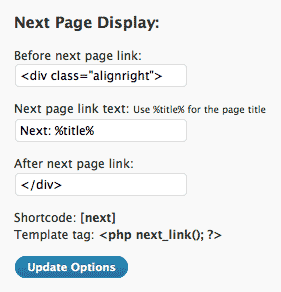
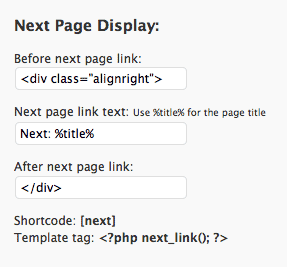
typo correction
git-svn-id: https://plugins.svn.wordpress.org/next-page/trunk@140290 b8457f37-d9ea-0310-8a92-e5e31aec5664

Changed region(s): [[0.0285, 0.1498, 0.968, 0.9588], [0.0285, 0.03, 0.5694, 0.1498], [0.6548, 0.5993, 0.6833, 0.6592]]

diff --git a/next-page.php b/next-page.php
@@ -93,7 +93,7 @@ function next_page_options() {
     <p><label><?php _e("After previous page link: "); ?><br />
     <input type="text" name="next_page__after_prev_link" id="next_page__after_prev_link" value="<?php echo stripslashes(htmlentities(get_option('next_page__after_prev_link'))); ?>" />  </label></p>
     <p>Shortcode: <strong>[previous]</strong><br />
-    Template tag: <strong>&lt;php previous_link(); ?&gt;</strong></p>
+    Template tag: <strong>&lt;?php previous_link(); ?&gt;</strong></p>
     </div>
     
     <div style="float: left; width: 30%; margin-right: 5%;">
@@ -107,7 +107,7 @@ function next_page_options() {
     <p><label><?php _e("After parent page link: "); ?><br />
     <input type="text" name="next_page__after_parent_link" id="next_page__after_parent_link" value="<?php echo stripslashes(htmlentities(get_option('next_page__after_parent_link'))); ?>" />  </label></p>
     <p>Shortcode: <strong>[parent]</strong><br />
-    Template tag: <strong>&lt;php parent_link(); ?&gt;</strong></p>
+    Template tag: <strong>&lt;?php parent_link(); ?&gt;</strong></p>
     </div>
     
     <div style="float: left; width: 30%;">
@@ -121,7 +121,7 @@ function next_page_options() {
     <p><label><?php _e("After next page link: "); ?><br />
     <input type="text" name="next_page__after_next_link" id="next_page__after_next_link" value="<?php echo stripslashes(htmlentities(get_option('next_page__after_next_link'))); ?>" />  </label></p>
     <p>Shortcode: <strong>[next]</strong><br />
-    Template tag: <strong>&lt;php next_link(); ?&gt;</strong></p>
+    Template tag: <strong>&lt;?php next_link(); ?&gt;</strong></p>
     </div>
     
     <input type="hidden" name="action" value="update" />
@@ -159,19 +159,16 @@ function next_page() {
 	$current = array_search($post->ID, $pages);
 	$nextID = $pages[$current+1];
 	
-	if (!empty($nextID)) {
-		$before_link = htmlspecialchars_decode(stripslashes(get_option('next_page__before_next_link')));
-		$linkurl = get_permalink($nextID);
-		$title = get_the_title($nextID);
-		$linktext = get_option('next_page__next_link_text');
-		if (strpos($linktext, '%title%') !== false) 
-			$linktext = str_replace('%title%', $title, $linktext);
-		$after_link = htmlspecialchars_decode(stripslashes(get_option('next_page__after_next_link')));
-		
-		$link = $before_link . '<a href="' . $linkurl . '" title="' . $title . '">' . $linktext . '</a>' . $after_link;
-		return $link;
-	}
-	else return '';
+	$before_link = htmlspecialchars_decode(stripslashes(get_option('next_page__before_next_link')));
+	$linkurl = get_permalink($nextID);
+	$title = get_the_title($nextID);
+	$linktext = get_option('next_page__next_link_text');
+	if (strpos($linktext, '%title%') !== false) 
+		$linktext = str_replace('%title%', $title, $linktext);
+	$after_link = htmlspecialchars_decode(stripslashes(get_option('next_page__after_next_link')));
+	
+	$link = $before_link . '<a href="' . $linkurl . '" title="' . $title . '">' . $linktext . '</a>' . $after_link;
+	return $link;
 } 
 
 function prev_page() {
@@ -180,47 +177,43 @@ function prev_page() {
 	$current = array_search($post->ID, $pages);
 	$prevID = $pages[$current-1];
 	
-	if (!empty($prevID)) {
-		$before_link = htmlspecialchars_decode(stripslashes(get_option('next_page__before_prev_link')));
-		$linkurl = get_permalink($prevID);
-		$title = get_the_title($prevID);
-		$linktext = get_option('next_page__prev_link_text');
-		if (strpos($linktext, '%title%') !== false) 
-			$linktext = str_replace('%title%', $title, $linktext);
-		$after_link = htmlspecialchars_decode(stripslashes(get_option('next_page__after_prev_link')));
-		
-		$link = $before_link . '<a href="' . $linkurl . '" title="' . $title . '">' . $linktext . '</a>' . $after_link;
-		return $link;
-	}
-	else return '';
+	$before_link = htmlspecialchars_decode(stripslashes(get_option('next_page__before_prev_link')));
+	$linkurl = get_permalink($prevID);
+	$title = get_the_title($prevID);
+	$linktext = get_option('next_page__prev_link_text');
+	if (strpos($linktext, '%title%') !== false) 
+		$linktext = str_replace('%title%', $title, $linktext);
+	$after_link = htmlspecialchars_decode(stripslashes(get_option('next_page__after_prev_link')));
+	
+	$link = $before_link . '<a href="' . $linkurl . '" title="' . $title . '">' . $linktext . '</a>' . $after_link;
+	return $link;
 } 
 
 function parent_page() {
 	global $post;
 	$parentID = $post->post_parent;
 	
-	if (!empty($parentID)) {
-		$before_link = htmlspecialchars_decode(stripslashes(get_option('next_page__before_parent_link')));
-		$linkurl = get_permalink($parentID);
-		$title = get_the_title($parentID);
-		$linktext = get_option('next_page__parent_link_text');
-		if (strpos($linktext, '%title%') !== false) 
-			$linktext = str_replace('%title%', $title, $linktext);
-		$after_link = htmlspecialchars_decode(stripslashes(get_option('next_page__after_parent_link')));
-		
-		$link = $before_link . '<a href="' . $linkurl . '" title="' . $title . '">' . $linktext . '</a>' . $after_link;
-		return $link;
-	}
-	else return '';
+	$before_link = htmlspecialchars_decode(stripslashes(get_option('next_page__before_parent_link')));
+	$linkurl = get_permalink($parentID);
+	$title = get_the_title($parentID);
+	$linktext = get_option('next_page__parent_link_text');
+	if (strpos($linktext, '%title%') !== false) 
+		$linktext = str_replace('%title%', $title, $linktext);
+	$after_link = htmlspecialchars_decode(stripslashes(get_option('next_page__after_parent_link')));
+	
+	$link = $before_link . '<a href="' . $linkurl . '" title="' . $title . '">' . $linktext . '</a>' . $after_link;
+	return $link;
 }
 
 // template tags
 function previous_link() {
 	echo prev_page();
 }
+
 function next_link() {
 	echo next_page();
 }
+
 function parent_link() {
 	echo parent_page();
 }
